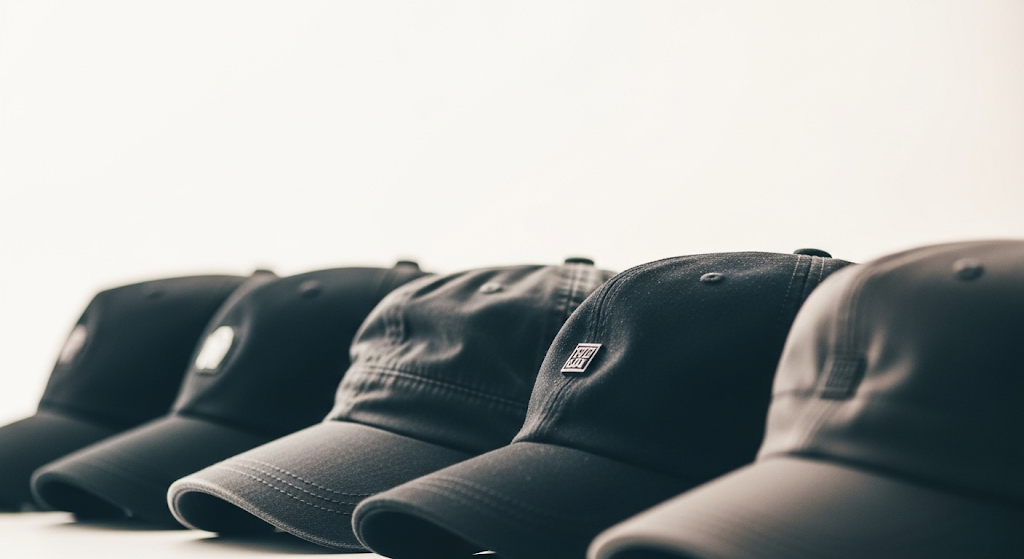
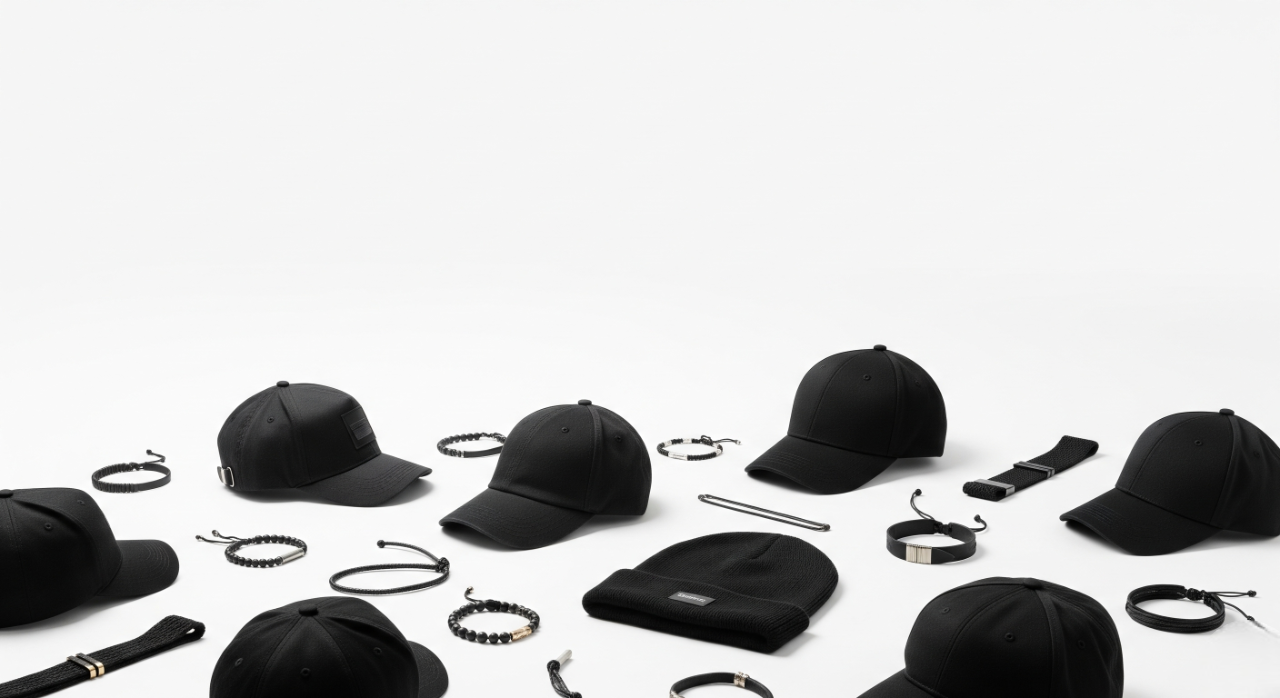
some ui changes

diff --git a/DINNOM/src/components/HeroSlider.jsx b/DINNOM/src/components/HeroSlider.jsx
@@ -1,11 +1,40 @@
 import React, { useEffect, useRef } from 'react';
-import coverImage from '../assets/videos/ChatGPT Image Jul 5, 2025 at 07_32_51 PM.png';
+import gsap from 'gsap';
+import coverImage from '../assets/videos/homepagefirst.png';
 
 const HeroSlider = () => {
   const imageRef = useRef(null);
   const scaleRef = useRef(1);
+  const titleRef = useRef(null);
+  const taglineRef = useRef(null);
 
   useEffect(() => {
+    // Initialize GSAP animations for title and tagline
+    const tl = gsap.timeline({ delay: 0.5 });
+    
+    // Animate title (NOIRÈ)
+    tl.fromTo(titleRef.current, {
+      y: 100,
+      opacity: 0,
+      scale: 0.8
+    }, {
+      y: 0,
+      opacity: 1,
+      scale: 1,
+      duration: 1.5,
+      ease: "power3.out"
+    })
+    // Animate tagline
+    .fromTo(taglineRef.current, {
+      y: 50,
+      opacity: 0
+    }, {
+      y: 0,
+      opacity: 1,
+      duration: 1.2,
+      ease: "power2.out"
+    }, "-=0.8")
+
     const handleScroll = () => {
       const scrollY = window.scrollY;
       const newScale = Math.min(1 + scrollY * 0.0005, 1.2);
@@ -30,6 +59,33 @@ const HeroSlider = () => {
         alt="NOIRÉ Cover"
         className="w-full h-full object-cover transition-transform duration-200 ease-out will-change-transform"
       />
+      
+      {/* Overlay with brand name and tagline */}
+      <div className="absolute inset-0 flex flex-col items-center justify-center z-10">
+        {/* Brand Name */}
+        <h1 
+          ref={titleRef}
+          className="text-8xl md:text-9xl lg:text-[12rem] xl:text-[14rem] font-bold text-white mb-6 tracking-wider drop-shadow-2xl"
+          style={{
+            fontFamily: 'serif',
+            textShadow: '0 0 30px rgba(0,0,0,0.8), 0 0 60px rgba(0,0,0,0.6)'
+          }}
+        >
+          NOIRÉ
+        </h1>
+        
+        {/* Tagline */}
+        <p 
+          ref={taglineRef}
+          className="text-xl md:text-3xl lg:text-4xl xl:text-5xl text-white font-medium tracking-widest uppercase opacity-90"
+          style={{
+            textShadow: '0 0 20px rgba(0,0,0,0.8), 0 0 40px rgba(0,0,0,0.6)',
+            letterSpacing: '0.3em'
+          }}
+        >
+          India's First Monochrome Fashion Brand
+        </p>
+      </div>
     </section>
   );
 };

diff --git a/DINNOM/src/pages/checkout.jsx b/DINNOM/src/pages/checkout.jsx
@@ -5,6 +5,8 @@ import toast from 'react-hot-toast';
 
 const Checkout = () => {
   const navigate = useNavigate();
+  const { user, token } = useAuth();
+  const [loading, setLoading] = useState(true);
 
   const [shippingAddress, setShippingAddress] = useState({
     name: user?.displayName || '',
@@ -17,7 +19,6 @@ const Checkout = () => {
   });
   const [error, setError] = useState('');
   const [addresses, setAddresses] = useState([]);
-  const { user, token } = useAuth();
 
   const cartItems = JSON.parse(localStorage.getItem('cartItems')) || [];
   useEffect(() => {
@@ -94,20 +95,20 @@ const Checkout = () => {
       return;
     }
 
-if (isNaN(totalAmount)) {
-  alert('Something went wrong calculating total');
-  return;
-}
+    if (isNaN(totalAmount)) {
+      alert('Something went wrong calculating total');
+      return;
+    }
 
-navigate('/payment', {
-  state: {
-    orderInfo: {
-      cartItems,
-      shippingAddress,
-      totalAmount: parseInt(totalAmount), // ✅ Ensure it's a number
-    },
-  },
-});
+    navigate('/payment', {
+      state: {
+        orderInfo: {
+          cartItems,
+          shippingAddress,
+          totalAmount: parseInt(totalAmount), // ✅ Ensure it's a number
+        },
+      },
+    });
 
   };
 
@@ -169,6 +170,8 @@ navigate('/payment', {
           Proceed to Payment
         </button>
       </form>
+        </div>
+      </div>
     </div>
   );
 };

diff --git a/DINNOM/src/components/ScrollSections.jsx b/DINNOM/src/components/ScrollSections.jsx
@@ -12,10 +12,10 @@ import img3 from "../assets/videos/griffity.png";
 import img4 from "../assets/videos/brand.png";
 
 const sections = [
-  { title: "RAW PRESENCE", subtitle: "Power in Contrast", image: img1 },
-  { title: "FABRIC TRUTH", subtitle: "Materials in Focus", image: img2 },
-  { title: "SPEAK STREET", subtitle: "Culture & Noise", image: img3 },
-  { title: "LABELLED", subtitle: "Identity & Branding", image: img4 },
+  { title: "PURE SHADOW", subtitle: "Where Darkness Defines Grace", image: img1 },
+  { title: "PURE FORM", subtitle: "Simplicity in Black", image: img2 },
+  { title: "URBAN CANVAS", subtitle: "The City in Monochrome", image: img3 },
+  { title: "SIGNATURE BLACK", subtitle: "The Mark of NOIRÈ", image: img4 },
 ];
 
 export default function ScrollGallery() {

diff --git a/DINNOM/src/components/SummerSection.jsx b/DINNOM/src/components/SummerSection.jsx
@@ -14,7 +14,7 @@ const SummerSection = () => {
       {/* Header */}
       <div className="flex justify-between items-center flex-wrap mb-5">
         <h2 className="text-4xl font-semibold">
-          <span className="text-blue-600">NOIRE Summer</span> on you.
+          <span className="text-black-600">BLACK REIMAGINED, BY NOIRÈ .</span> 
         </h2>
         <button className="border border-black px-5 py-2 bg-white text-base cursor-pointer hover:bg-black hover:text-white transition">
           View all stories

diff --git a/DINNOM/src/components/TailoredSpace.jsx b/DINNOM/src/components/TailoredSpace.jsx
@@ -4,9 +4,9 @@ import { ScrollTrigger } from "gsap/ScrollTrigger";
 import { TextPlugin } from "gsap/TextPlugin";
 
 // Import your images
-import img1 from "../assets/videos/model.webp";
-import img2 from "../assets/videos/fabric.png";
-import img3 from "../assets/videos/griffity.png";
+import img1 from "../assets/videos/ts1.png";
+import img2 from "../assets/videos/ts2.png";
+import img3 from "../assets/videos/ts3.png";
 import img4 from "../assets/videos/brand.png";
 
 gsap.registerPlugin(ScrollTrigger, TextPlugin);

diff --git a/DINNOM/src/components/women/WomenCategoryShowcase5.jsx b/DINNOM/src/components/women/WomenCategoryShowcase5.jsx
@@ -1,7 +1,7 @@
 import React from "react";
 import { useNavigate } from "react-router-dom";  // <-- import this
 import imgLeft from "../../assets/women/images/footwear-left.png";  // Model image on left
-import imgLabel from "../../assets/women/images/brand-label.png";   // Bottom right label image
+import imgLabel from "../../assets/women/images/footwear-right.png";   // Bottom right label image
 
 const WomenCategoryShowcase5 = () => {
   const navigate = useNavigate();  // <-- initialize navigate

diff --git a/DINNOM/src/components/women/WomenCategoryShowcase3.jsx b/DINNOM/src/components/women/WomenCategoryShowcase3.jsx
@@ -1,7 +1,7 @@
 import React from "react";
 import { useNavigate } from "react-router-dom";
 import imgLeft from "../../assets/women/images/hoodies-left.jpeg";  // Model image on left
-import imgLabel from "../../assets/women/images/brand-label.png";  // Bottom right label image
+import imgLabel from "../../assets/women/images/sweatshirt.png";  // Bottom right label image
 
 const WomenCategoryShowcase3 = () => {
  const navigate = useNavigate();

diff --git a/DINNOM/src/components/men/MenCategoryShowcase5.jsx b/DINNOM/src/components/men/MenCategoryShowcase5.jsx
@@ -35,7 +35,7 @@ const MenCategoryShowcase5 = () => {
         {/* Centered title */}
         <div className="absolute top-[26%] left-1/2 transform -translate-x-1/2 -translate-y-1/2 text-center">
           <h1 className="text-7xl font-extrabold uppercase text-black tracking-tight">
-            CAPS & ACCESSORIES
+            CAPS
           </h1>
         </div>
       </div>

diff --git a/DINNOM/src/components/women/WomenCategoryShowcase2.jsx b/DINNOM/src/components/women/WomenCategoryShowcase2.jsx
@@ -1,6 +1,6 @@
 import React from "react";
 import { useNavigate } from "react-router-dom";
-import imgRight from "../../assets/women/images/pants.jpeg";
+import imgRight from "../../assets/women/images/pants-right.png";
 import imgLeft from "../../assets/women/images/pants.jpeg";
 
 const WomenCategoryShowcase2 = () => {
